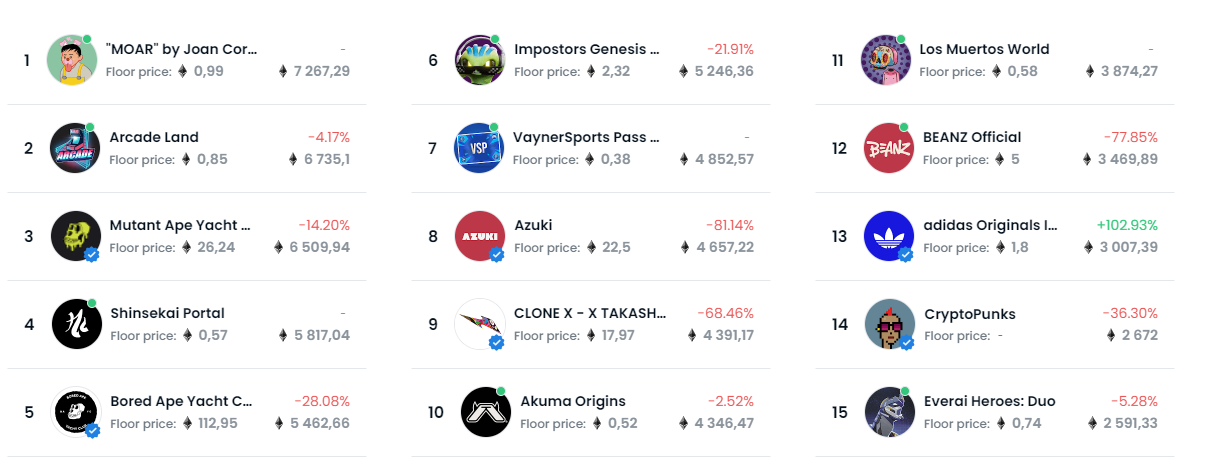
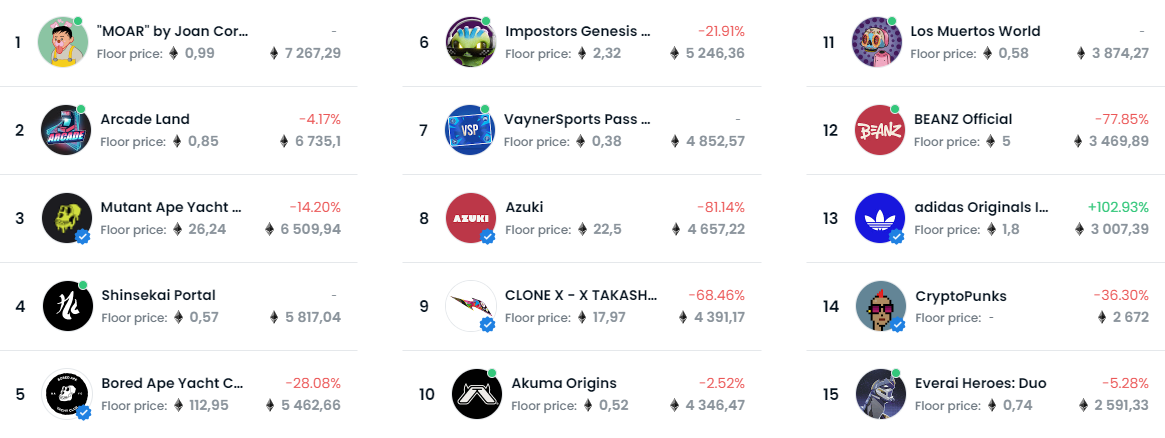
menü szekszibb, ranking reszponzív, mára még nem fejeztem be.

diff --git a/index.html b/index.html
@@ -12,7 +12,7 @@
     <title>Főoldal | Enefté</title>
 </head>
 <body>
-    <div id="menu">
+    <div id="menu" class="col-12">
         <table>
             <tr class="spaceUnder">
                 <td>
@@ -34,7 +34,8 @@
                     <a href="gyik.html">GYIK</a>
                 </td>
             </tr>
-            <!-- <tr id="legalsocucc">
+            <!-- <tr>
+                <td id="legalsocucc"> </td>
             </tr> -->
         </table>
         
@@ -54,12 +55,20 @@
             <h1><b>Enefté</b></h1>
             <h3>Alkoss és keress a világ legkisebb NFT-piacán! <a href="áruház.html">Kezdés!</a></h3>
         </div>
-        <div id="main" class="container">
-            <h5 id="lee">Jelenlegi "leggazdagabb" felhasználóink</h5>
-            <img src="pictures/Képkivágás.PNG" alt="" id="lee"> <!--TABLENEK MEGCSINÁLNI-->
-            <!--pont ennyi kell (15)--> <!-- ez a szöveg lejjebb lesz -->
+        <div id="main">
+            <h5 id="lee">Jelenlegi "leggazdagabb" felhasználóink:</h5>
+            <!-- <img src="pictures/Képkivágás.PNG" alt="" id="lee">; pont ennyi kell (15); ez a szöveg lejjebb lesz -->
+            <div id="gazd" class="row">
+                <img src="pictures/rank1.png" class="col-lg-4 col-md-4 col-sm-12 col-12" alt="">
+                <img src="pictures/rank2.png" class="col-lg-4 col-md-4 col-sm-12 col-12" alt="">
+                <img src="pictures/rank3.png" class="col-lg-4 col-md-4 col-sm-12 col-12" alt="">
+            </div>
             <h5 id="szabaly" >Néhány szabály:</h5>
-            <ul></ul>
+            <ul>
+                <li><b>Bármely alábbi szabály megszegése azonnali kitiltást jelent a piacról.</b></li>
+                <li>Nincs felnőtt tartalom.</li>
+                <li></li>
+            </ul>
         </div>
     </div>
 <script src="title.js"></script>

diff --git a/styletemp.css b/styletemp.css
@@ -17,10 +17,11 @@ body{
     background-color: #0f0f0f;
     color:white;
     font-family:'Montserrat', sans-serif;
+    overflow-x: hidden;
 }
 
 #cim{
-    margin-left: 15rem;
+    margin-left: 15rem; /*tf?!?!!?!?*/
     padding-top: 12rem;
     margin-bottom: 6.2rem;
 
@@ -43,13 +44,15 @@ body{
 }
 
 #menu{
+    background-color: #000000;
     width: 0% ;
     margin-right: 2px;
     position: fixed;
     z-index: 1;
     overflow-x: hidden;
     transition: 0.5s;
-    margin-top: 0.55rem;
+    padding-top: 0.55rem;
+    height: 100%;
 }
 /* #lee{
     margin-left: 2rem;
@@ -216,7 +219,7 @@ h1 {
     letter-spacing: 3px;
 }
 /* #legalsocucc{
-    height: 4000px;
+    padding-bottom: 100%;
 } */
 
 #logo{
@@ -269,4 +272,13 @@ h1 {
     position: fixed;
     right: 0.2rem;
     bottom: 0.9rem;
+}
+#gazd{
+    padding-right: 3.2rem;
+}
+#gazd img{
+    padding: 0 0 0 0;
+}
+#szabaly{
+    margin-top: 2rem;
 }

diff --git a/fejlesztok.html b/fejlesztok.html
@@ -54,7 +54,7 @@
                     </div>
                 </div>
                 <div id="_card" class="col-12 col-sd-1 col-md-2 col-xl-3 col-xxl-4">
-                    <img src="pictures/én.jpg" class="card-img-top mx-auto" alt="Podlipnik Ádám">
+                    <img src="pictures/bandi.jpg" class="card-img-top mx-auto" alt="Podlipnik Ádám">
                     <div class="card-body">
                         <h5 class="card-title text-center">Moldován András</h5>
                     </div>
